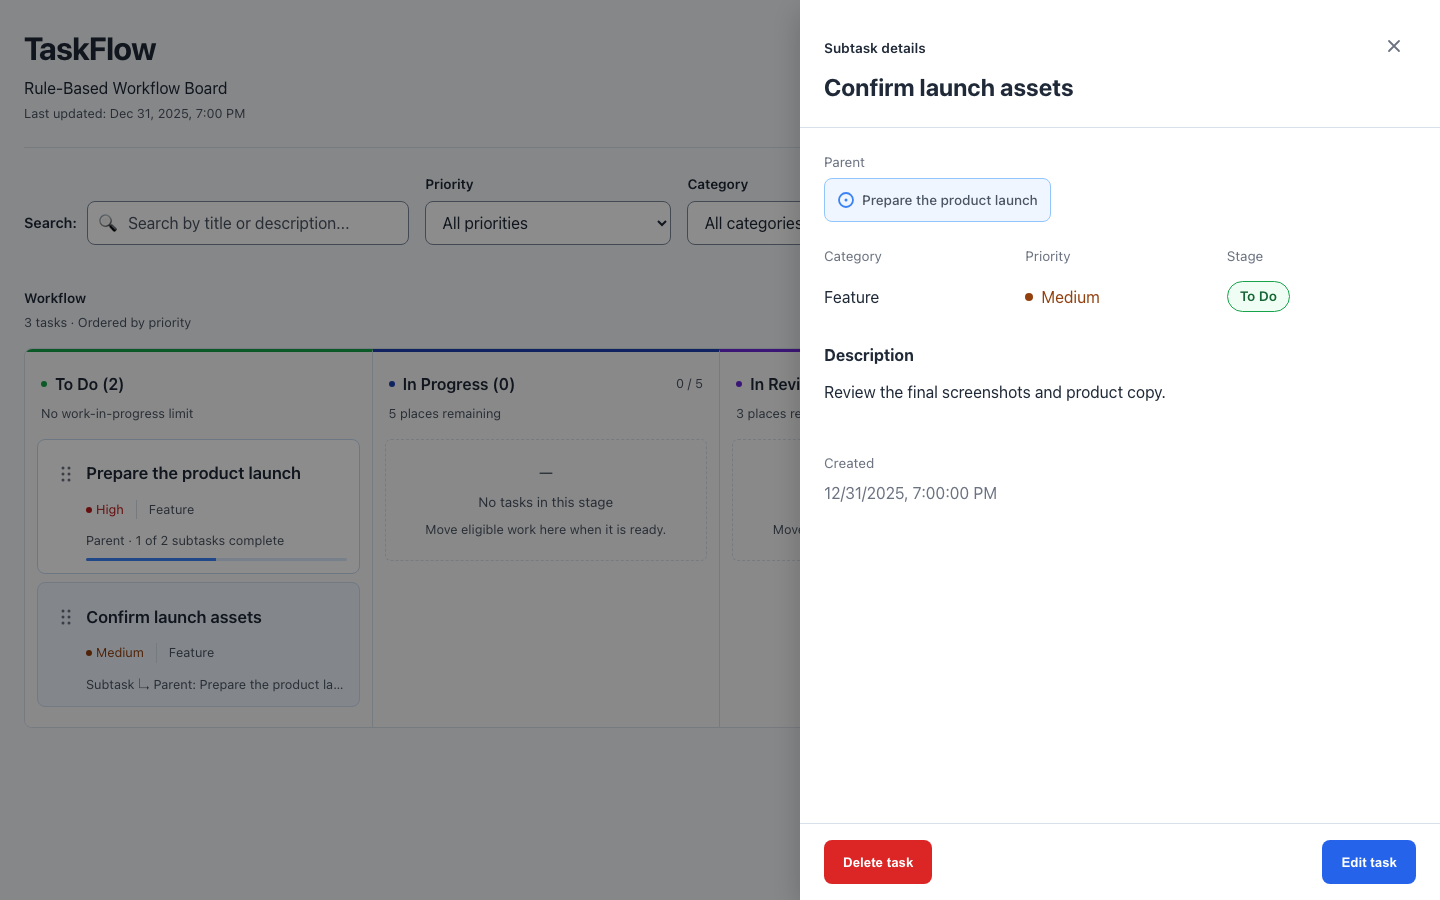
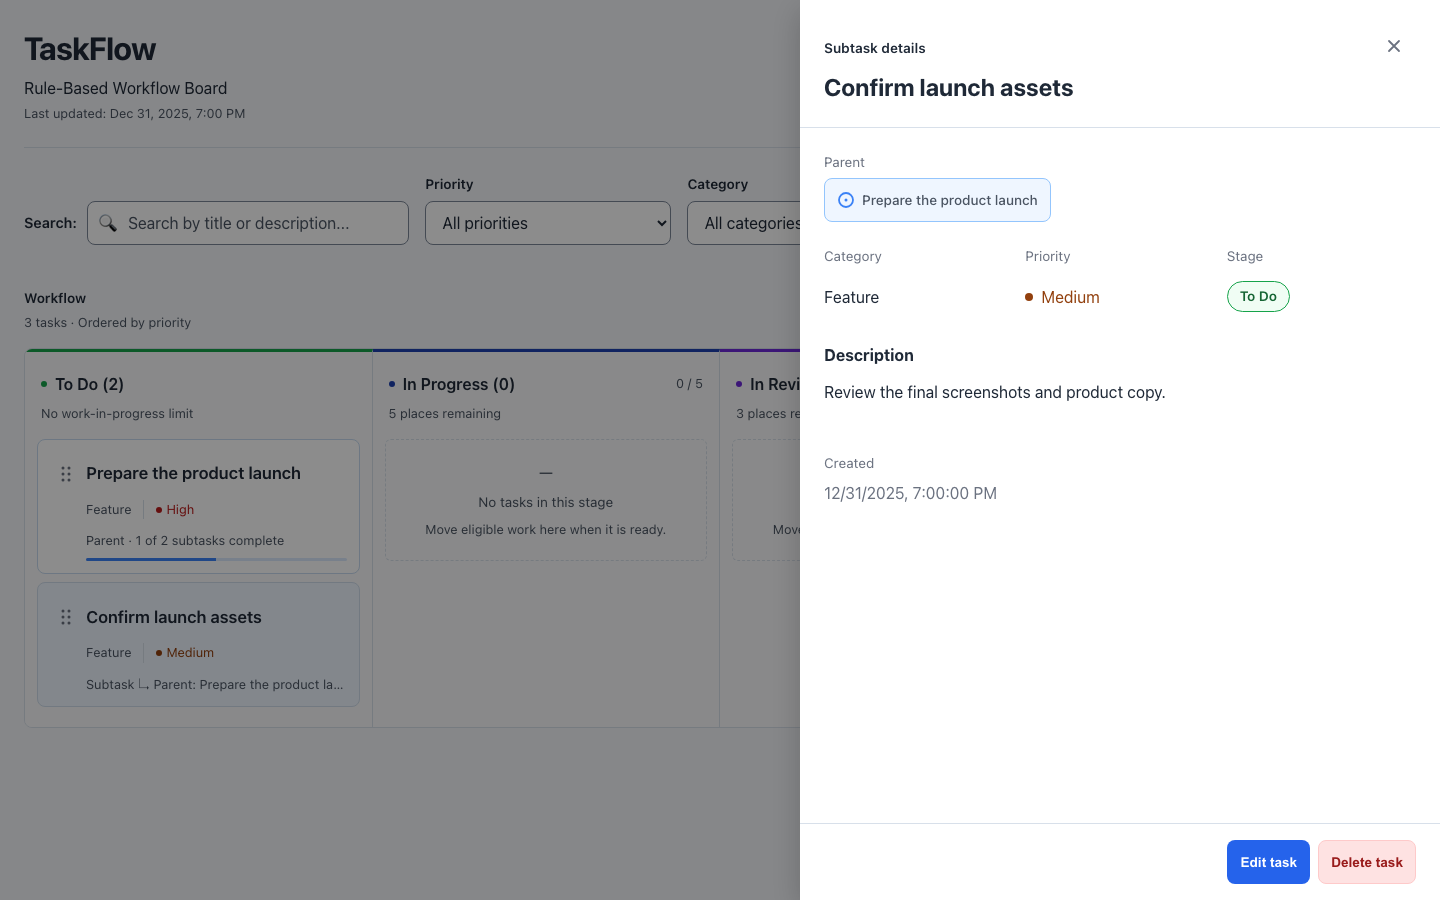
polish: unify grouped action footers across task views

diff --git a/src/components/TaskForm/TaskForm.tsx b/src/components/TaskForm/TaskForm.tsx
@@ -1,6 +1,7 @@
 import SubtaskList from "../SubtaskList/SubtaskList";
 import "../../styles/task-dialog.css";
 import "./TaskForm.css";
+import "../../styles/task-actions.css";
 import Button from "../ui/Button/Button";
 import CloseButton from "../ui/CloseButton/CloseButton";
 import TaskParentLink from "../TaskParentLink/TaskParentLink";
@@ -342,25 +343,19 @@ export default function TaskForm({
                     </li>
                   ))}
                 </ul>
-                {currentTask.status !== "done" && (
-                  <button type="button" id={`${fieldPrefix}-add-subtask`} className="edit-task-button add-editor-subtask" aria-label={`Add SubTask to ${currentTask?.title}`} onClick={() => setSubtaskEditor({ type: "create" })}>
-                    Add SubTask
-                  </button>
-                )}
               </details>
             </section>
           )}
 
           {currentTask && !linkedParent && children.length === 0 && <div className="editor-related-actions">
-            {!isSubtask && currentTask.status !== "done" && <button type="button" id={`${fieldPrefix}-add-subtask`} className="edit-task-button add-editor-subtask" aria-label={`Add SubTask to ${currentTask.title}`} onClick={() => setSubtaskEditor({ type: "create" })}>Add SubTask</button>}
             <button type="button" className="editor-manage-parent" onClick={() => setShowRelationshipForm(true)} aria-label={`Manage parent of ${currentTask.title}`}>Manage Parent</button>
           </div>}
 
           {currentTask && currentTask.subtasks.length > 0 && <details className="task-editor-subtasks"><summary>Legacy checklist ({currentTask.subtasks.length})</summary><SubtaskList task={currentTask} dispatch={dispatch} allowCreate={currentTask.status !== "done"}/></details>}
 
           </div>
-          <div className="create-task-actions">
-            {currentTask && onDelete && <Button className="editor-delete-action" variant="danger" aria-label={`Delete ${currentTask.title}`} onClick={() => onDelete(currentTask.id)}>Delete task</Button>}
+          <div className="create-task-actions task-action-footer">
+            {currentTask && !isSubtask && currentTask.status !== "done" && <button type="button" id={`${fieldPrefix}-add-subtask`} className="edit-task-button add-editor-subtask" aria-label={`Add SubTask to ${currentTask.title}`} onClick={() => setSubtaskEditor({ type: "create" })}>Add Subtask</button>}
             {!isEditing && <Button variant="secondary" onClick={handleRequestClose}>
               Cancel
             </Button>}
@@ -368,6 +363,7 @@ export default function TaskForm({
             <Button type="submit">
               {isEditing ? "Save Changes" : parent ? "Create SubTask" : "Create Task"}
             </Button>
+            {currentTask && onDelete && <Button variant="danger" aria-label={`Delete ${currentTask.title}`} onClick={() => onDelete(currentTask.id)}>Delete task</Button>}
           </div>
         </form>
       </div>

diff --git a/e2e/details.spec.ts b/e2e/details.spec.ts
@@ -155,6 +155,9 @@ test("read-only details and compact editor rows remain aligned on desktop and na
     const actionRects=await taskActions.evaluateAll(nodes=>nodes.map(node=>{const rect=node.getBoundingClientRect();return {top:rect.top,right:rect.right,height:rect.height};}));
     expect(Math.max(...actionRects.map(rect=>rect.top))-Math.min(...actionRects.map(rect=>rect.top))).toBeLessThan(1);
     expect(actionRects.every(rect=>rect.height>=44&&rect.right<=width)).toBe(true);
+    const gaps=await taskActions.evaluateAll(nodes=>nodes.slice(1).map((node,i)=>node.getBoundingClientRect().left-nodes[i].getBoundingClientRect().right));
+    expect(gaps.every(gap=>gap<=8.1&&gap>=5.9)).toBe(true);
+    const deleteStyle=await taskActions.last().evaluate(el=>{const s=getComputedStyle(el);return [s.color,s.backgroundColor,s.borderColor];});
     await detail.locator("summary").click();
     await expect(detail.getByRole("button",{name:"Add SubTask to Aligned parent",exact:true})).toBeVisible();
     await detail.getByRole("button",{name:"Edit task",exact:true}).click();
@@ -164,7 +167,10 @@ test("read-only details and compact editor rows remain aligned on desktop and na
     const fieldRects=await fields.evaluateAll(nodes=>nodes.map(node=>({top:node.getBoundingClientRect().top,right:node.getBoundingClientRect().right})));
     expect(Math.max(...fieldRects.map(r=>r.top))-Math.min(...fieldRects.map(r=>r.top))).toBeLessThan(1);
     expect(fieldRects.every(rect=>rect.right<=width)).toBe(true);
-    const buttons=editor.locator(".create-task-actions button");await expect(buttons).toHaveText(["Delete task","Save Changes"]);
+    const buttons=editor.locator(".create-task-actions button");await expect(buttons).toHaveText(["Add Subtask","Save Changes","Delete task"]);
+    expect(await buttons.last().evaluate(el=>{const s=getComputedStyle(el);return [s.color,s.backgroundColor,s.borderColor];})).toEqual(deleteStyle);
+    const editorGaps=await buttons.evaluateAll(nodes=>nodes.slice(1).map((node,i)=>node.getBoundingClientRect().left-nodes[i].getBoundingClientRect().right));
+    expect(editorGaps.every(gap=>gap<=8.1&&gap>=5.9)).toBe(true);
     const tops=await buttons.evaluateAll(nodes=>nodes.map(node=>node.getBoundingClientRect().top));
     expect(Math.max(...tops)-Math.min(...tops)).toBeLessThan(1);
     await expect(editor.getByText("Stage changes save immediately and move this task on the board.",{exact:true})).toHaveCount(0);

diff --git a/src/components/TaskDetails/TaskDetails.tsx b/src/components/TaskDetails/TaskDetails.tsx
@@ -8,6 +8,7 @@ import SubtaskList from "../SubtaskList/SubtaskList";
 import Button from "../ui/Button/Button";
 import "../TaskForm/TaskForm.css";
 import "./TaskDetails.css";
+import "../../styles/task-actions.css";
 import CloseButton from "../ui/CloseButton/CloseButton";
 import CompletionMark from "../ui/CompletionMark/CompletionMark";
 import type { BoardOperationError } from "../../domain/board/boardValidation";
@@ -57,11 +58,10 @@ export default function TaskDetails(props: TaskFormProps & { task: Task; onChang
             {task.subtasks.length > 0 && <section aria-label="Legacy checklist"><h3>Legacy checklist</h3><SubtaskList task={task} dispatch={dispatch} allowCreate={task.status !== "done"}/></section>}
             <dl className="task-details-dates"><div><dt>Created</dt><dd>{task.createdAt.toLocaleString()}</dd></div></dl>
           </div>
-          <footer className={`task-details-footer${!task.parentId ? " task-details-task-actions" : ""}`}>
+          <footer className="task-details-footer task-action-footer">
             {!task.parentId && task.status !== "done" && <button type="button" id={`${id}-child`} className="edit-task-button add-editor-subtask" aria-label={`Add SubTask to ${task.title}`} onClick={() => setView("child")}>Add Subtask</button>}
-            {task.parentId && onDelete && <Button variant="danger" aria-label={`Delete ${task.title}`} onClick={() => onDelete(task.id)}>Delete task</Button>}
             <Button id={`${id}-edit`} onClick={() => setView("edit")}>Edit task</Button>
-            {!task.parentId && onDelete && <Button className="task-detail-delete" variant="danger" aria-label={`Delete ${task.title}`} onClick={() => onDelete(task.id)}>Delete task</Button>}
+            {onDelete && <Button variant="danger" aria-label={`Delete ${task.title}`} onClick={() => onDelete(task.id)}>Delete task</Button>}
           </footer></>}
         </div>
       </div>

diff --git a/src/components/TaskForm/TaskForm.css b/src/components/TaskForm/TaskForm.css
@@ -181,12 +181,10 @@
 .task-editor-dialog textarea { min-height: 96px; }
 .task-editor-dialog .task-form-select-row { display: grid; grid-template-columns: repeat(2, minmax(0, 1fr)); gap: 12px; }
 .task-editor-dialog .create-task-actions { position: static; flex-shrink: 0; margin: 0; padding: 14px 24px; border-top: 1px solid var(--color-border); background: var(--color-surface); }
-.task-editor-dialog .create-task-actions > button { font-size: var(--font-size-label); }
 @media (max-width: 600px) {
   .task-editor-dialog { padding: 12px; }
   .task-editor-dialog .task-form-heading, .task-editor-dialog .task-form-content { padding: 16px; }
   .task-editor-dialog .create-task-actions { padding: 12px 16px; flex-direction: row; }
-  .task-editor-dialog .create-task-actions > button { width: auto; flex: 1; }
 }
 @media (max-height: 450px) {
   .task-editor-dialog .task-form-heading { padding: 10px 16px; }
@@ -196,13 +194,10 @@
 
 .task-editor-dialog .task-form-select-row.has-stage { grid-template-columns: 1fr .85fr 1.2fr; gap: 10px; }
 .task-editor-dialog .has-stage select { padding: 8px 6px; }
-.task-editor-dialog .editor-delete-action { margin-right: auto; }
 @media (max-width: 600px) {
   .task-editor-dialog .task-form-select-row.has-stage { gap: 6px; }
   .task-editor-dialog .has-stage select { font-size: .8rem; padding: 8px 2px; }
   .task-editor-dialog .create-task-actions { gap: 6px; flex-wrap: nowrap; }
-  .task-editor-dialog .create-task-actions > button { flex: 0 1 auto; padding: 8px; font-size: .8rem; white-space: nowrap; }
-  .task-editor-dialog .create-task-actions > button:last-child { margin-left: auto; }
 }
 
 .task-editor-dialog .editor-related-actions { display: flex; align-items: center; gap: 8px; min-width: 0; }

diff --git a/src/styles/task-actions.css b/src/styles/task-actions.css
@@ -1,0 +1,38 @@
+/* Shared footer sizing and action hierarchy for task details and composers. */
+.task-details-footer.task-action-footer,
+.task-editor-dialog .create-task-actions.task-action-footer {
+  display: flex;
+  flex-direction: row;
+  flex-wrap: nowrap;
+  justify-content: flex-end;
+  align-items: center;
+  gap: 8px;
+}
+.task-details-footer.task-action-footer > button,
+.task-editor-dialog .create-task-actions.task-action-footer > button {
+  flex: 0 1 auto;
+  width: auto;
+  min-width: var(--size-touch-target);
+  min-height: var(--size-touch-target);
+  margin: 0;
+  padding: 8px 12px;
+  font-size: var(--font-size-support);
+  white-space: nowrap;
+}
+.task-action-footer .ui-button--danger {
+  background: var(--color-action-danger-subtle);
+  color: var(--color-action-danger-text);
+  border-color: var(--color-action-danger-border);
+}
+.task-action-footer .ui-button--danger:hover:not(:disabled) {
+  background: var(--color-action-danger-subtle-hover);
+}
+@media (max-width: 360px) {
+  .task-details-footer.task-action-footer,
+  .task-editor-dialog .create-task-actions.task-action-footer { gap: 6px; }
+  .task-details-footer.task-action-footer > button,
+  .task-editor-dialog .create-task-actions.task-action-footer > button {
+    padding: 8px;
+    font-size: var(--font-size-compact);
+  }
+}

diff --git a/src/components/TaskDetails/TaskDetails.css b/src/components/TaskDetails/TaskDetails.css
@@ -38,14 +38,3 @@
 .task-details-children .relationship-link { color: var(--color-text-primary); text-decoration: none; }
 .task-details-children .relationship-link:hover, .task-details-children .relationship-link:focus-visible { color: var(--color-action-subtle-text); text-decoration: underline; }
 .completion-placeholder { display: inline-block; flex-shrink: 0; width: 18px; height: 18px; }
-
-/* Task actions stay visible beside one another while related work scrolls. */
-.task-details-task-actions { flex-wrap: nowrap; justify-content: flex-end; gap: 8px; }
-.task-details-task-actions > button { flex: 0 1 auto; padding: 8px 12px; font-size: var(--font-size-support); white-space: nowrap; }
-.task-details-task-actions > .add-editor-subtask { margin-right: auto; }
-.task-details-task-actions .task-detail-delete { background: var(--color-action-danger-subtle); color: var(--color-action-danger-text); border-color: var(--color-action-danger-border); }
-.task-details-task-actions .task-detail-delete:hover:not(:disabled) { background: var(--color-action-danger-subtle-hover); }
-@media (max-width: 360px) {
-  .task-details-task-actions { gap: 6px; }
-  .task-details-task-actions > button { padding: 8px; font-size: var(--font-size-compact); }
-}

diff --git a/src/components/Board/Board.test.tsx b/src/components/Board/Board.test.tsx
@@ -50,7 +50,7 @@ describe("linked task board interactions", () => {
     await user.click(card("Parent work").getByRole("button", { name: "Open task Parent work" })); await user.click(screen.getByRole("button", { name: "Edit task" }));
     const section = within(screen.getByRole("region", { name: "Subtasks" }));
     expect(section.getAllByRole("button").map((button) => button.getAttribute("aria-label") ?? button.textContent))
-      .toEqual(["Open subtask First created", "Open subtask Second created", "Add SubTask to Parent work"]);
+      .toEqual(["Open subtask First created", "Open subtask Second created"]);
     simulateDrop(newer.id, "in-progress");
     expect(section.getAllByRole("listitem").map((row) => row.textContent)).toEqual(["First created", "Second created"]);
     await user.click(section.getByRole("button", { name: "Open subtask Second created" }));

diff --git a/src/components/TaskDetails/TaskDetails.test.tsx b/src/components/TaskDetails/TaskDetails.test.tsx
@@ -154,6 +154,6 @@ it("keeps details read-only, marks only completed children and groups editor con
   const editor=within(screen.getByRole("dialog",{name:"Edit Task"}));
   expect(editor.getAllByRole("combobox").map(control=>(control as HTMLSelectElement).labels?.[0].textContent)).toEqual(["Category","Priority","Stage"]);
   const footer=editor.getByRole("button",{name:"Save Changes"}).closest(".create-task-actions")!;
-  expect(within(footer as HTMLElement).getAllByRole("button").map(button=>button.textContent)).toEqual(["Delete task","Save Changes"]);
+  expect(within(footer as HTMLElement).getAllByRole("button").map(button=>button.textContent)).toEqual(["Add Subtask","Save Changes","Delete task"]);
   expect(editor.queryByText("Stage changes save immediately and move this task on the board.")).not.toBeInTheDocument();
 });

diff --git a/docs/v2-task-details.md b/docs/v2-task-details.md
@@ -101,3 +101,13 @@ Task details consolidate Add Subtask → Edit task → Delete task into one comp
 The reported Frontend CI failure was an application relationship journey still querying the removed editor Cancel button (`src/App.relationships.test.tsx:34`). That journey now exits through × and retains its saved parent/child assertions. The full unit/component/integration suite passed 467/467 across 43 files before pushing. Lint, strict TypeScript and production build passed. Production footer checks at 1440, 390 and 320px verified action order, 44px targets, no overflow, child creation and focus return, deliberate editing, deletion cancellation and unchanged subtask details actions.
 
 The full production Chromium suite also passed 46/46 on desktop/mobile before pushing. Updated layout assertions cover the compact task detail footer at 1440, 390, 375 and 320px. Screenshots were refreshed from the tested production build.
+
+## Consistent grouped action footers
+
+Details and composers share one footer style: adjacent, right-aligned buttons with an 8px gap (6px on the narrowest screens), matching sizing, blue primary actions and subtle red Delete actions. Task details show Add Subtask → Edit task → Delete task; task editors show Add Subtask → Save Changes → Delete task. The same task footer applies with or without linked children. Subtask views omit Add Subtask and use the same primary/Delete order and colors. Add Subtask is no longer duplicated inside editor relationship sections. Creation keeps Cancel and Create together. Manage Parent remains in its relationship field with black text.
+
+Save Changes stays blue and Add Subtask stays subtle blue. Green is reserved for status/success cues. Movement, draft/discard guards, deletion confirmation and child eligibility remain unchanged.
+
+Verification: the final full unit/component/integration rerun passed 467/467 across 43 files using one worker and unchanged timeouts/assertions. The initial parallel run hit the existing 5-second application-journey timeout; the unchanged journey passed in isolation before the full rerun. Production checks at 1440, 390 and 320px cover parent tasks, tasks without subtasks, linked subtasks and completed tasks in both details and editors: adjacent footer spacing, matching Delete colors, readable labels, 44px targets, child creation and focus return all passed. Lint, strict TypeScript and the production build passed.
+
+All 46 production desktop/mobile browser checks passed on the final build. Existing footer assertions now verify the same Delete palette and adjacent gaps in details/editing at 1440, 390, 375 and 320px. Updated screenshots include all detail/editor variants and the task-without-subtasks editor.
